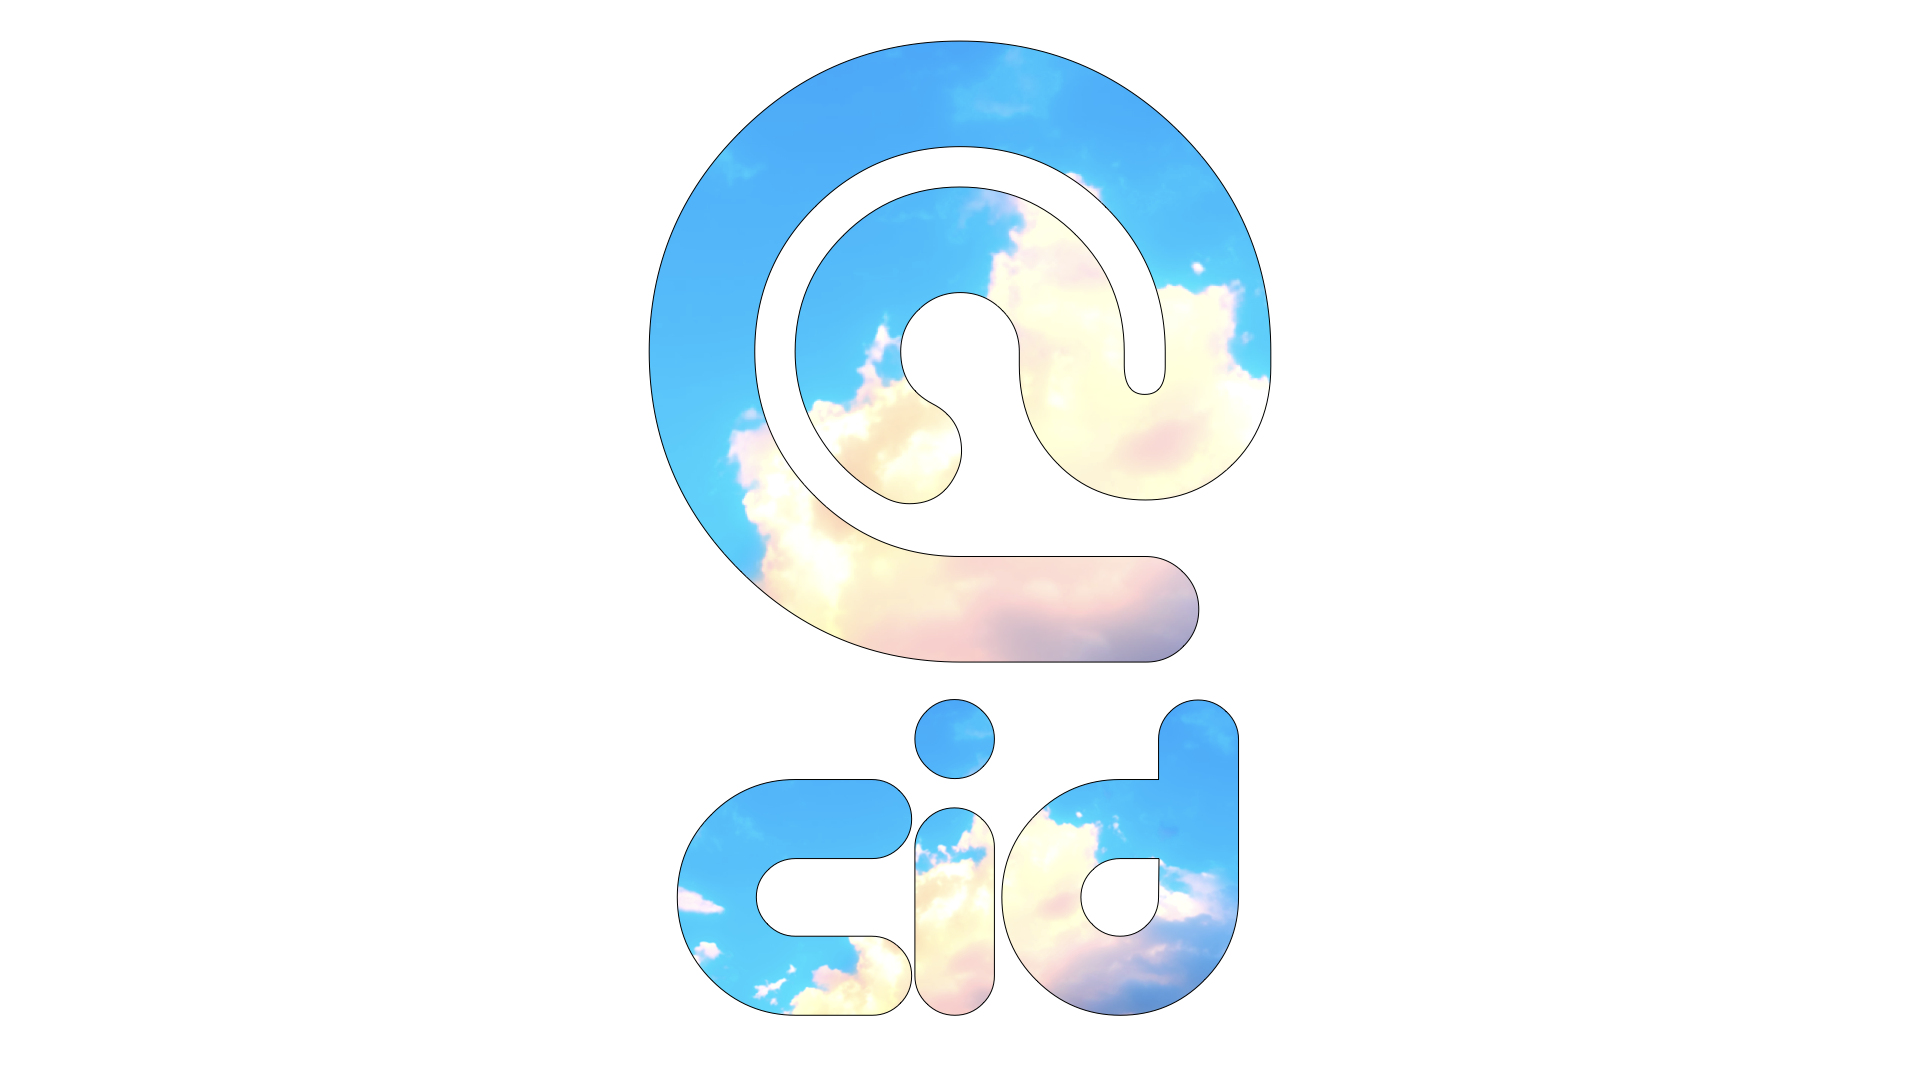
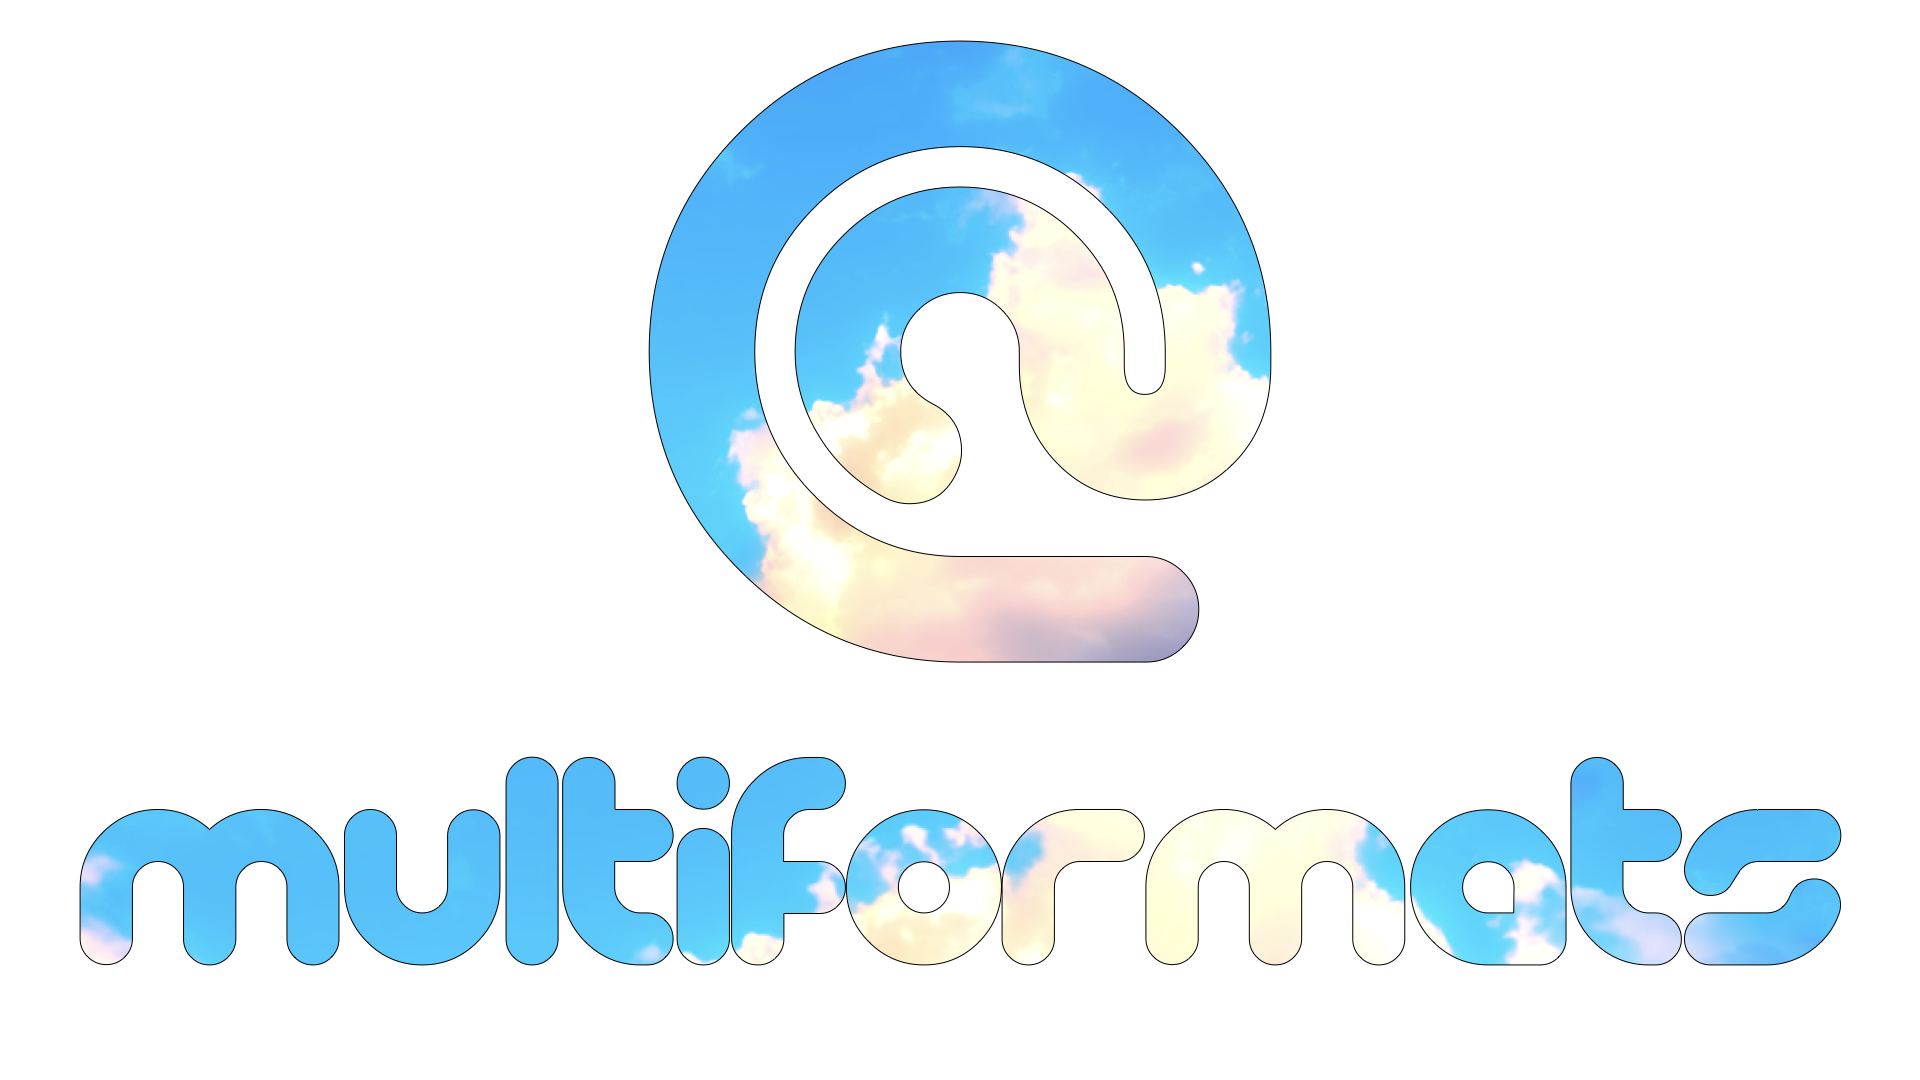
refactor: renamed `multiformats`

Changed region(s): [[0.0312, 0.6417, 0.9688, 0.9472]]

diff --git a/packages/multiformats/example/example.dart b/packages/multiformats/example/example.dart
@@ -4,7 +4,7 @@
 
 // ignore_for_file: lines_longer_than_80_chars
 
-import 'package:cid/cid.dart';
+import 'package:multiformats/multiformats.dart';
 
 import 'data.dart';
 
@@ -21,5 +21,5 @@ void main() {
   });
 
   cid3 == cid1 && cid3 == cid2; // => true
-  cid3.toJson(); // => {"link": "bafkreicks4diafps5lz5hjf5lflqbxkhevgdty4k66inqtw4brjyqcr6ou"}
+  cid3.toJson(); // => {"/": "bafkreicks4diafps5lz5hjf5lflqbxkhevgdty4k66inqtw4brjyqcr6ou"}
 }

diff --git a/packages/multiformats/lib/src/cid.dart b/packages/multiformats/lib/src/cid.dart
@@ -1,4 +1,3 @@
-// ignore_for_file: public_member_api_docs, sort_constructors_first
 // Copyright 2023 Shinya Kato. All rights reserved.
 // Redistribution and use in source and binary forms, with or without
 // modification, are permitted provided the conditions.
@@ -85,5 +84,5 @@ class CID {
   }
 
   @override
-  int get hashCode => _bytes.hashCode;
+  int get hashCode => bytes.hashCode;
 }

diff --git a/packages/multiformats/lib/multiformats.dart b/packages/multiformats/lib/multiformats.dart
@@ -1,6 +1,5 @@
-// ignore_for_file: public_member_api_docs, sort_constructors_first
 // Copyright 2023 Shinya Kato. All rights reserved.
 // Redistribution and use in source and binary forms, with or without
 // modification, are permitted provided the conditions.
 
-export 'package:cid/src/cid.dart';
+export 'package:multiformats/src/cid.dart';

diff --git a/packages/multiformats/test/src/cid_test.dart b/packages/multiformats/test/src/cid_test.dart
@@ -2,7 +2,7 @@
 // Redistribution and use in source and binary forms, with or without
 // modification, are permitted provided the conditions.
 
-import 'package:cid/src/cid.dart';
+import 'package:multiformats/src/cid.dart';
 import 'package:test/test.dart';
 
 const stringCid = 'bafkreicks4diafps5lz5hjf5lflqbxkhevgdty4k66inqtw4brjyqcr6ou';

diff --git a/packages/multiformats/README.md b/packages/multiformats/README.md
@@ -6,7 +6,7 @@
 
 
 <p align="center">
-  <b>Provide Standard cid Object Supported By AT Protocol to Dart/Flutter 🎯</b>
+  <b>Provide useful interfaces such a CID used by AT Protocol to Dart/Flutter 🎯</b>
 </p>
 
 ---
@@ -14,8 +14,8 @@
 [![GitHub Sponsor](https://img.shields.io/static/v1?label=Sponsor&message=%E2%9D%A4&logo=GitHub&color=ff69b4)](https://github.com/sponsors/myConsciousness)
 [![GitHub Sponsor](https://img.shields.io/static/v1?label=Maintainer&message=myConsciousness&logo=GitHub&color=00acee)](https://github.com/myConsciousness)
 
-[![pub package](https://img.shields.io/pub/v/cid.svg?logo=dart&logoColor=00b9fc)](https://pub.dartlang.org/packages/cid)
-[![Dart SDK Version](https://badgen.net/pub/sdk-version/cid)](https://pub.dev/packages/cid/)
+[![pub package](https://img.shields.io/pub/v/multiformats.svg?logo=dart&logoColor=00b9fc)](https://pub.dartlang.org/packages/multiformats)
+[![Dart SDK Version](https://badgen.net/pub/sdk-version/multiformats)](https://pub.dev/packages/multiformats/)
 [![Test/Analyzer](https://github.com/myConsciousness/atproto.dart/actions/workflows/cicd.yml/badge.svg)](https://github.com/myConsciousness/atproto.dart/actions/workflows/cicd.yml)
 [![codecov](https://codecov.io/gh/myConsciousness/atproto.dart/branch/main/graph/badge.svg?token=J5GT1PF9Y3)](https://codecov.io/gh/myConsciousness/atproto.dart)
 [![Issues](https://img.shields.io/github/issues/myConsciousness/atproto.dart?logo=github&logoColor=white)](https://github.com/myConsciousness/atproto.dart/issues)
@@ -44,7 +44,7 @@
 
 # 1. Guide 🌎
 
-This library provides the easiest way to use v1 [cid](https://docs.ipfs.tech/concepts/content-addressing/) in **Dart** and **Flutter** apps.
+This library provides the easiest way to use v1 [CID](https://docs.ipfs.tech/concepts/content-addressing/) and other interfaces in **Dart** and **Flutter** apps.
 
 **Show some ❤ and star the repo to support the project.**
 
@@ -55,25 +55,25 @@ This library provides the easiest way to use v1 [cid](https://docs.ipfs.tech/con
 **With Dart:**
 
 ```bash
- dart pub add cid
+ dart pub add multiformats
 ```
 
 **Or With Flutter:**
 
 ```bash
- flutter pub add cid
+ flutter pub add multiformats
 ```
 
 ### 1.1.2. Import
 
 ```dart
-import 'package:cid/cid.dart';
+import 'package:multiformats/multiformats.dart';
 ```
 
 ### 1.1.3. Implementation
 
 ```dart
-import 'package:cid/cid.dart';
+import 'package:multiformats/multiformats.dart';
 
 import 'data.dart';
 
@@ -90,13 +90,13 @@ void main() {
   });
 
   cid3 == cid1 && cid3 == cid2; // => true
-  cid3.toJson(); // => {"link": "bafkreicks4diafps5lz5hjf5lflqbxkhevgdty4k66inqtw4brjyqcr6ou"}
+  cid3.toJson(); // => {"/": "bafkreicks4diafps5lz5hjf5lflqbxkhevgdty4k66inqtw4brjyqcr6ou"}
 }
 ```
 
 ## 1.2. Contribution 🏆
 
-If you would like to contribute to **cid**, please create an [issue](https://github.com/myConsciousness/atproto.dart/issues) or create a Pull Request.
+If you would like to contribute to **multiformats**, please create an [issue](https://github.com/myConsciousness/atproto.dart/issues) or create a Pull Request.
 
 There are many ways to contribute to the OSS. For example, the following subjects can be cocidered:
 
@@ -117,7 +117,7 @@ Or you can create a [discussion](https://github.com/myConsciousness/atproto.dart
 
 ## 1.3. Support ❤
 
-The simplest way to show us your support is by **giving the project a star** at [GitHub](https://github.com/myConsciousness/atproto.dart) and [Pub.dev](https://pub.dev/packages/cid).
+The simplest way to show us your support is by **giving the project a star** at [GitHub](https://github.com/myConsciousness/atproto.dart) and [Pub.dev](https://pub.dev/packages/multiformats).
 
 You can also support this project by **becoming a sponsor** on GitHub:
 
@@ -129,21 +129,21 @@ You can also support this project by **becoming a sponsor** on GitHub:
   </p>
 </div>
 
-You can also show on your repository that your app is made with **cid** by using one of the following badges:
+You can also show on your repository that your app is made with **multiformats** by using one of the following badges:
 
-[![Powered by cid](https://img.shields.io/badge/Powered%20by-cid-00acee.svg)](https://github.com/myConsciousness/atproto.dart)
-[![Powered by cid](https://img.shields.io/badge/Powered%20by-cid-00acee.svg?style=flat-square)](https://github.com/myConsciousness/atproto.dart)
-[![Powered by cid](https://img.shields.io/badge/Powered%20by-cid-00acee.svg?style=for-the-badge)](https://github.com/myConsciousness/atproto.dart)
+[![Powered by multiformats](https://img.shields.io/badge/Powered%20by-multiformats-00acee.svg)](https://github.com/myConsciousness/atproto.dart)
+[![Powered by multiformats](https://img.shields.io/badge/Powered%20by-multiformats-00acee.svg?style=flat-square)](https://github.com/myConsciousness/atproto.dart)
+[![Powered by multiformats](https://img.shields.io/badge/Powered%20by-multiformats-00acee.svg?style=for-the-badge)](https://github.com/myConsciousness/atproto.dart)
 
 ```license
-[![Powered by cid](https://img.shields.io/badge/Powered%20by-cid-00acee.svg)](https://github.com/myConsciousness/atproto.dart)
-[![Powered by cid](https://img.shields.io/badge/Powered%20by-cid-00acee.svg?style=flat-square)](https://github.com/myConsciousness/atproto.dart)
-[![Powered by cid](https://img.shields.io/badge/Powered%20by-cid-00acee.svg?style=for-the-badge)](https://github.com/myConsciousness/atproto.dart)
+[![Powered by multiformats](https://img.shields.io/badge/Powered%20by-multiformats-00acee.svg)](https://github.com/myConsciousness/atproto.dart)
+[![Powered by multiformats](https://img.shields.io/badge/Powered%20by-multiformats-00acee.svg?style=flat-square)](https://github.com/myConsciousness/atproto.dart)
+[![Powered by multiformats](https://img.shields.io/badge/Powered%20by-multiformats-00acee.svg?style=for-the-badge)](https://github.com/myConsciousness/atproto.dart)
 ```
 
 ## 1.4. License 🔑
 
-All resources of **cid** is provided under the `BSD-3` license.
+All resources of **multiformats** is provided under the `BSD-3` license.
 
 ```license
 Copyright 2023 Shinya Kato. All rights reserved.
@@ -156,10 +156,10 @@ modification, are permitted provided the conditions.
 
 ## 1.5. More Information 🧐
 
-**cid** was designed and implemented by **_Shinya Kato ([@myConsciousness](https://github.com/myConsciousness))_**.
+**multiformats** was designed and implemented by **_Shinya Kato ([@myConsciousness](https://github.com/myConsciousness))_**.
 
 - [Creator Profile](https://github.com/myConsciousness)
 - [License](https://github.com/myConsciousness/atproto.dart/blob/main/LICENSE)
-- [API Document](https://pub.dev/documentation/cid/latest/cid/cid-library.html)
+- [API Document](https://pub.dev/documentation/multiformats/latest/multiformats/multiformats-library.html)
 - [Release Note](https://github.com/myConsciousness/atproto.dart/releases)
 - [Bug Report](https://github.com/myConsciousness/atproto.dart/issues)

diff --git a/README.md b/README.md
@@ -63,7 +63,7 @@ and to contribute to the development of [AT Protocol](https://atproto.com) and [
 | [nsid](https://github.com/myConsciousness/atproto.dart/tree/main/packages/nsid)                   |          [![pub package](https://img.shields.io/pub/v/nsid.svg?logo=dart&logoColor=00b9fc)](https://pub.dartlang.org/packages/nsid)          | Provide standard NSID object supported by AT Protocol to Dart/Flutter.                                                                                        |
 | [at_uri](https://github.com/myConsciousness/atproto.dart/tree/main/packages/at_uri)               |        [![pub package](https://img.shields.io/pub/v/at_uri.svg?logo=dart&logoColor=00b9fc)](https://pub.dartlang.org/packages/at_uri)        | Provide standard uri supported by AT Protocol to Dart/Flutter.                                                                                                |
 | [xrpc](https://github.com/myConsciousness/atproto.dart/tree/main/packages/xrpc)                   |          [![pub package](https://img.shields.io/pub/v/xrpc.svg?logo=dart&logoColor=00b9fc)](https://pub.dartlang.org/packages/xrpc)          | Provide an HTTP client specialized for XRPC communication in AT Protocol.                                                                                     |
-| [cid](https://github.com/myConsciousness/atproto.dart/tree/main/packages/cid)                     |           [![pub package](https://img.shields.io/pub/v/cid.svg?logo=dart&logoColor=00b9fc)](https://pub.dartlang.org/packages/cid)           | Provides the useful way to use v1 [cid](https://docs.ipfs.tech/concepts/content-addressing/).                                                                 |
+| [multiformats](https://github.com/myConsciousness/atproto.dart/tree/main/packages/multiformats)   |  [![pub package](https://img.shields.io/pub/v/multiformats.svg?logo=dart&logoColor=00b9fc)](https://pub.dartlang.org/packages/multiformats)  | Provide useful interfaces such a [CID](https://docs.ipfs.tech/concepts/content-addressing/) used by AT Protocol to Dart/Flutter.                              |
 | [atproto_test](https://github.com/myConsciousness/atproto.dart/tree/main/packages/atproto_test)   |  [![pub package](https://img.shields.io/pub/v/atproto_test.svg?logo=dart&logoColor=00b9fc)](https://pub.dartlang.org/packages/atproto_test)  | Provide reusable and useful functionality for testing [atproto](https://pub.dartlang.org/packages/atproto) based packages.                                    |
 | [atproto_core](https://github.com/myConsciousness/atproto.dart/tree/main/packages/atproto_core)   |  [![pub package](https://img.shields.io/pub/v/atproto_core.svg?logo=dart&logoColor=00b9fc)](https://pub.dartlang.org/packages/atproto_core)  | Provide core reusable and useful functionality for wrapping AT Protocol and related services.                                                                 |
 | [lexicon](https://github.com/myConsciousness/atproto.dart/tree/main/packages/lexicon)             |       [![pub package](https://img.shields.io/pub/v/lexicon.svg?logo=dart&logoColor=00b9fc)](https://pub.dartlang.org/packages/lexicon)       | Provide AT Protocol standard [lexicon](https://atproto.com/specs/lexicon) objects for Dart/Flutter.                                                           |
